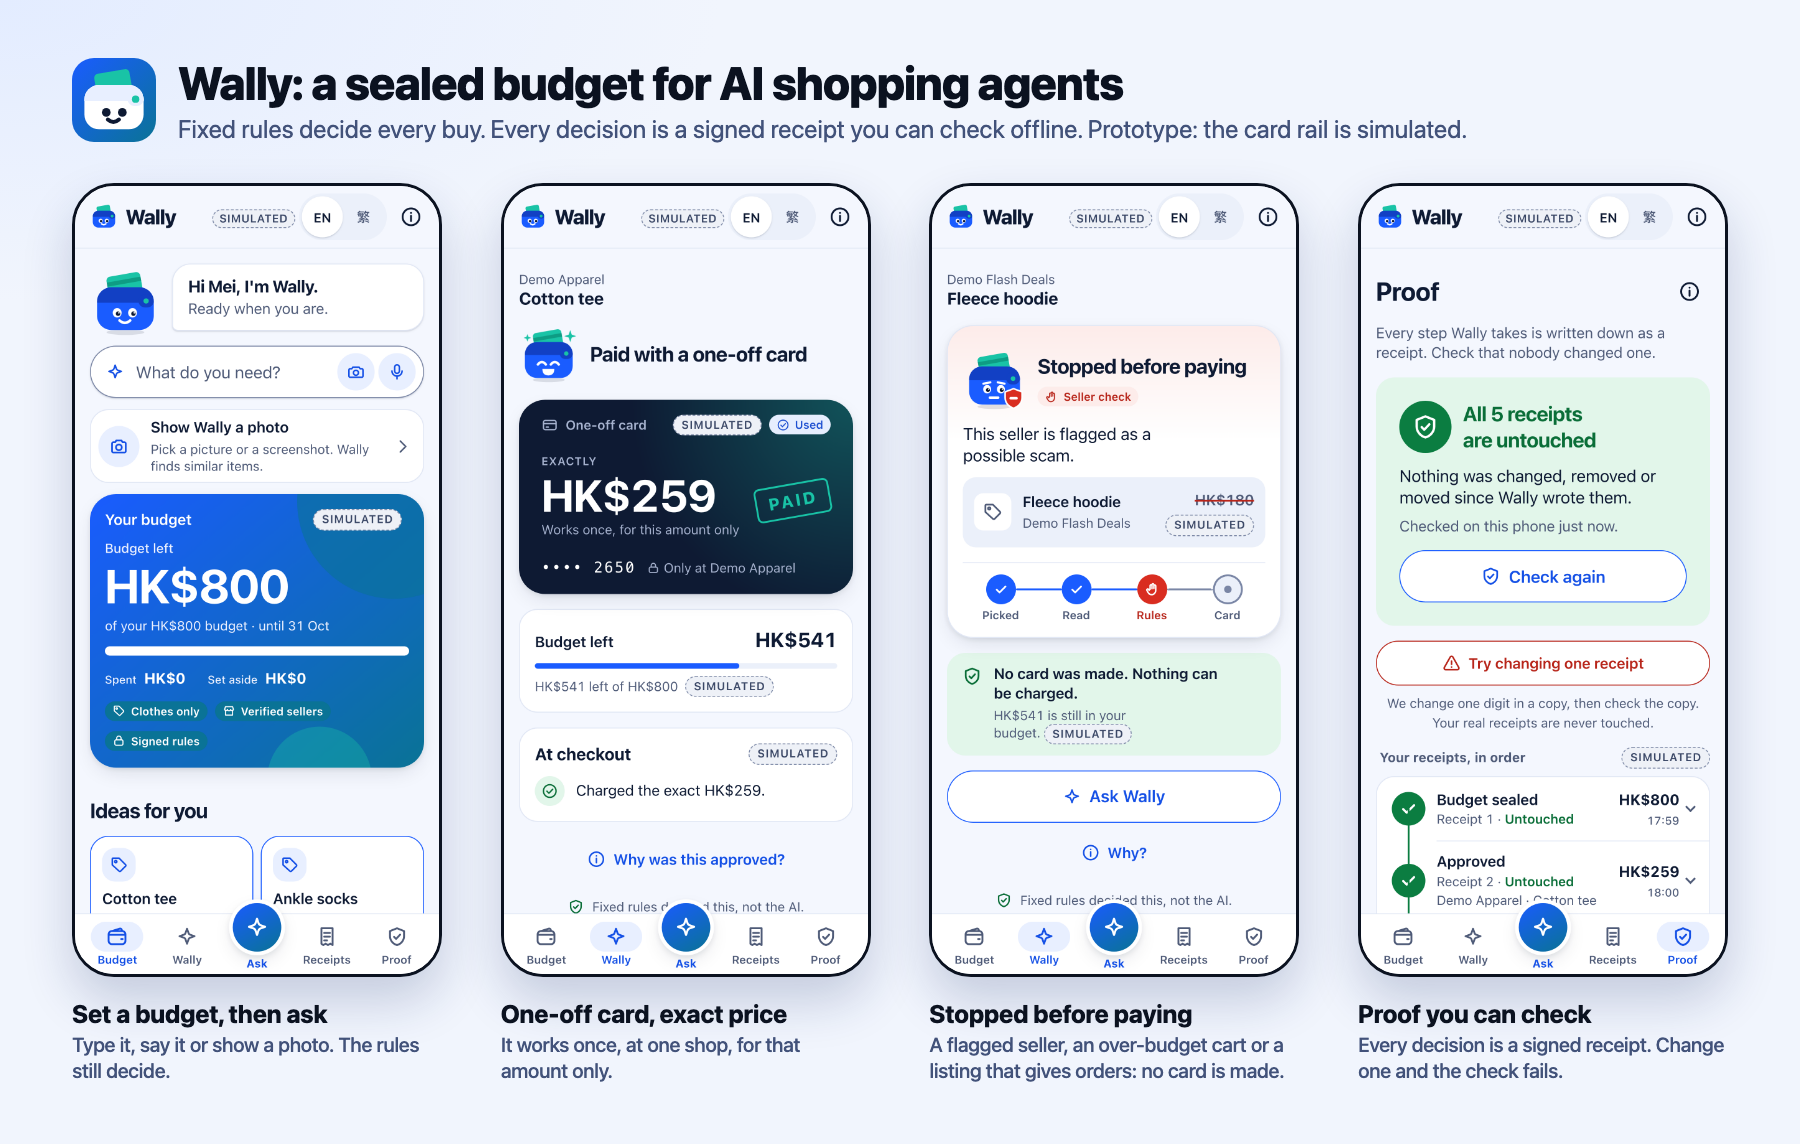
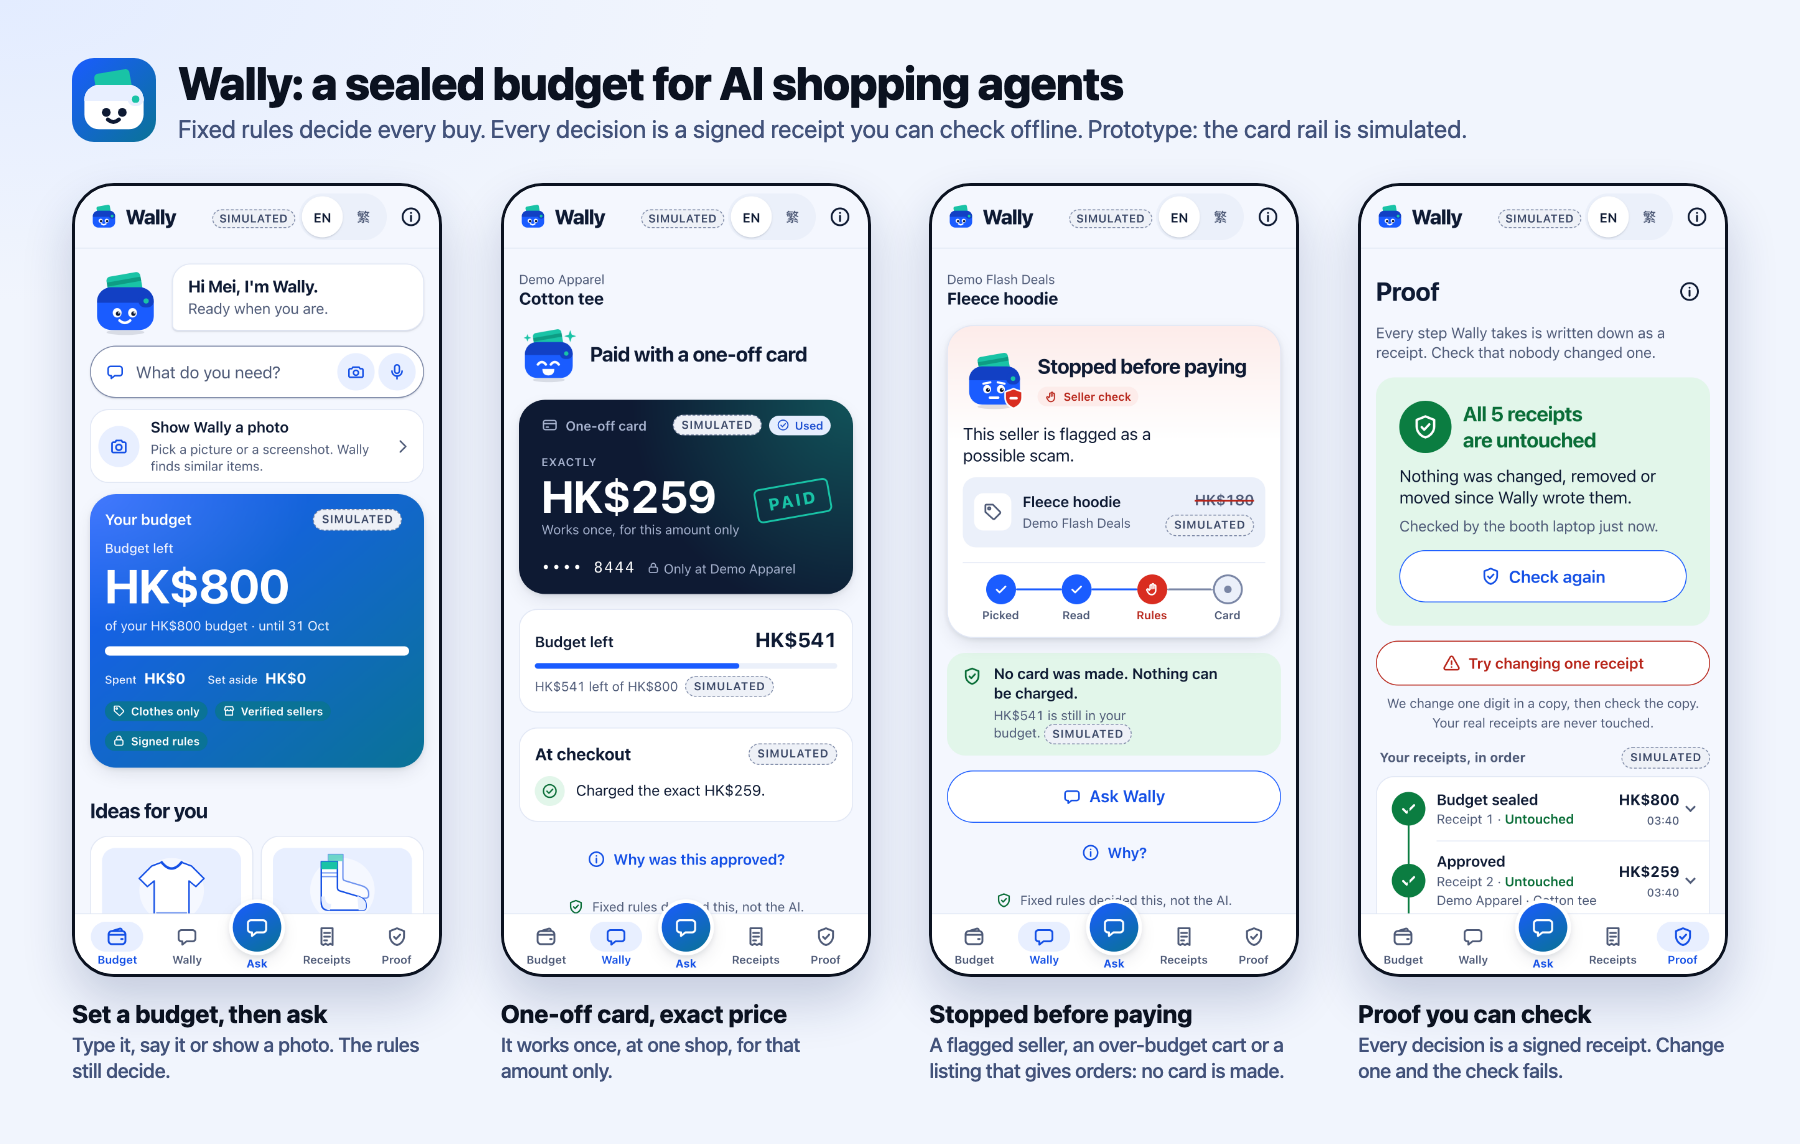
docs: README names the team and the scope, and the phone strip shows the current screens

diff --git a/README.md b/README.md
@@ -2,14 +2,14 @@
 
 - A sealed-budget wallet for AI shopping agents. The card rail is **SIMULATED**.
 - **Live demo**: https://wally-dev.vercel.app opens the on-device app in any browser: the real engine and rules with recorded model answers, no server. The booth Mac runs the live models.
-- **Built** during HacKU 2026 (48 h), FinTech track "Give a Machine a Wallet - Agentic Commerce" [F13]. Code freeze 2026-10-04 13:00 HKT; no changes after it [F16].
+- **Built** during HacKU 2026 (48 h) by push n prod (Dillon, Kanta, Kent, Leo), FinTech track "Give a Machine a Wallet - Agentic Commerce" [F13]. Code freeze 2026-10-04 13:00 HKT; no changes after it [F16].
 
 ![Four phone screens: Home with a sealed budget, a one-off card paid for the exact price, a stop before paying, and Proof saying all receipts are untouched](docs/img/wally-screens.png)
 
 ![The laptop layout on the booth Mac: Budget on one screen, with the ask box, the budget, ideas and the demo scenarios in three columns](docs/img/wally-laptop.png)
 
 ## What it does
-- **Seal**: write a sentence, for example "HK$800 this month, clothes, verified sellers" (illustrative, SIMULATED [F20]). Wally suggests rules, you edit them and sign them as a W3C VC 2.0 delegation credential.
+- **Seal**: write a sentence, for example "HK$800 this month, groceries and clothes, verified sellers" (illustrative, SIMULATED [F20]). Wally suggests rules, you edit them and sign them as a W3C VC 2.0 delegation credential. A budget names the categories you pick.
 - **Shop**: type, speak or show a photo (a screenshot works too). A planner proposes a cart, a judge reads the listing as data, and deterministic rules decide. Only an approved cart gets a one-off card for the exact total.
 - **Stops**: over budget (shipping included), a flagged or unverified seller, orders hidden in a listing, a cancelled or ended budget, an unanswered Needs your OK.
 - **Proof**: every decision is a signed, hash-chained receipt. An offline page checks tamper, order, truncation (with a checkpoint), consent and money for what is logged.
@@ -55,6 +55,7 @@ pnpm demo                                            # http://127.0.0.1:8787
 ## Honest status
 - **Harness**, seed 7, 150 SIMULATED scenarios, commit da2c814: 0/120 over-limit mints, 61/66 legitimate approved (92.4%); what each layer adds: a bare AI judge (our weak B0 baseline) let 43 of 84 stop cases through, rules only (no seller check, no judge) 28, Wally (all rules plus the judge) 0 (an upper bound of about 4 in 100 [F96]), at the price of 5 of 66 honest buys blocked against 3; decision latency p50 159.7 ms, p95 388.9 ms [F69]. Counts among generated scenarios, not a proof.
 - **Judge** alone let 8/40 attack items through, 6/20 held out; the seller gate is inert [F36, F69]. The rules and the rail limit use no model.
+- **Scope**: the rules name no category, so a budget covers whatever its owner picks. The judge and the photo reader are fitted on clothing, and the demo shop sells clothes and one gadget; for other goods Wally says so or asks first [F36].
 - **Qwen**: 25 calls over 26 author-written scenarios, no held-out set, few Cantonese cases [F68]. **Photo reader**: right kind of garment in 25 of 29 retailer photos [F68a].
 - **Tests**: over 6,000 automated tests; core line coverage above 95%; exact numbers and the last green CI commit in [F91].
 - **Shortcuts**: the booth server holds the delegator's demo key, and Mum's for a family budget. The offline page cannot check the parent link.
